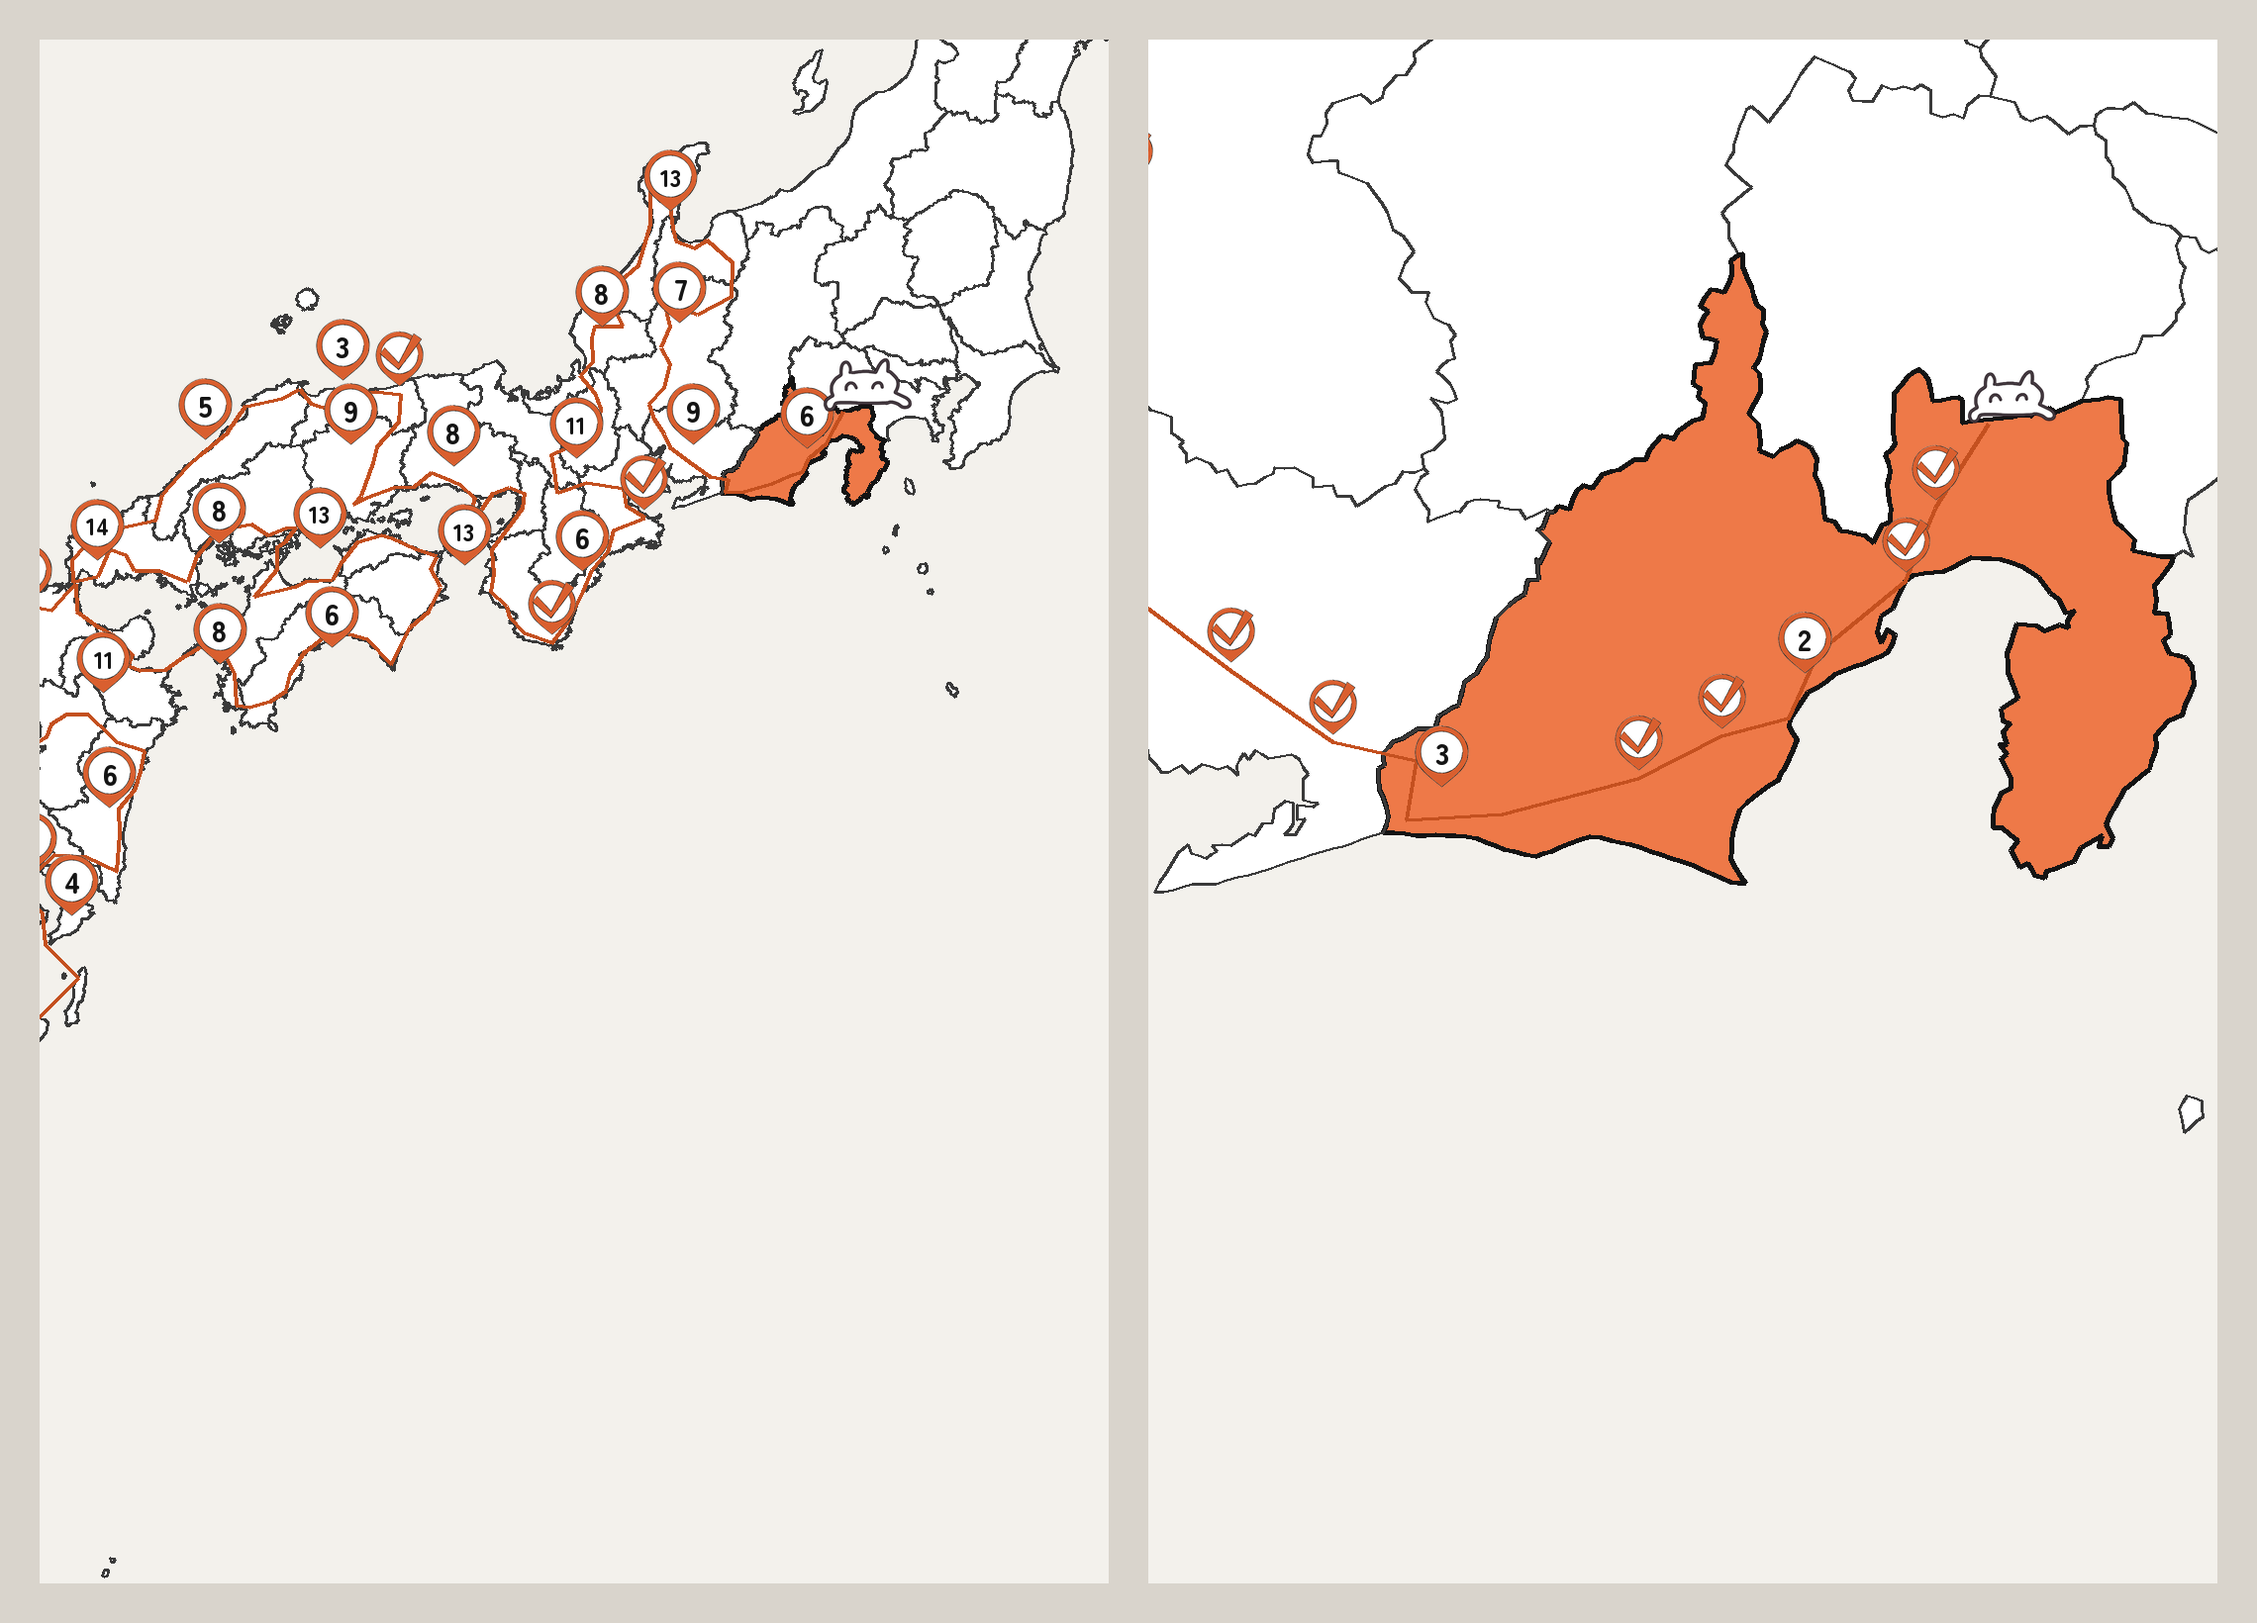
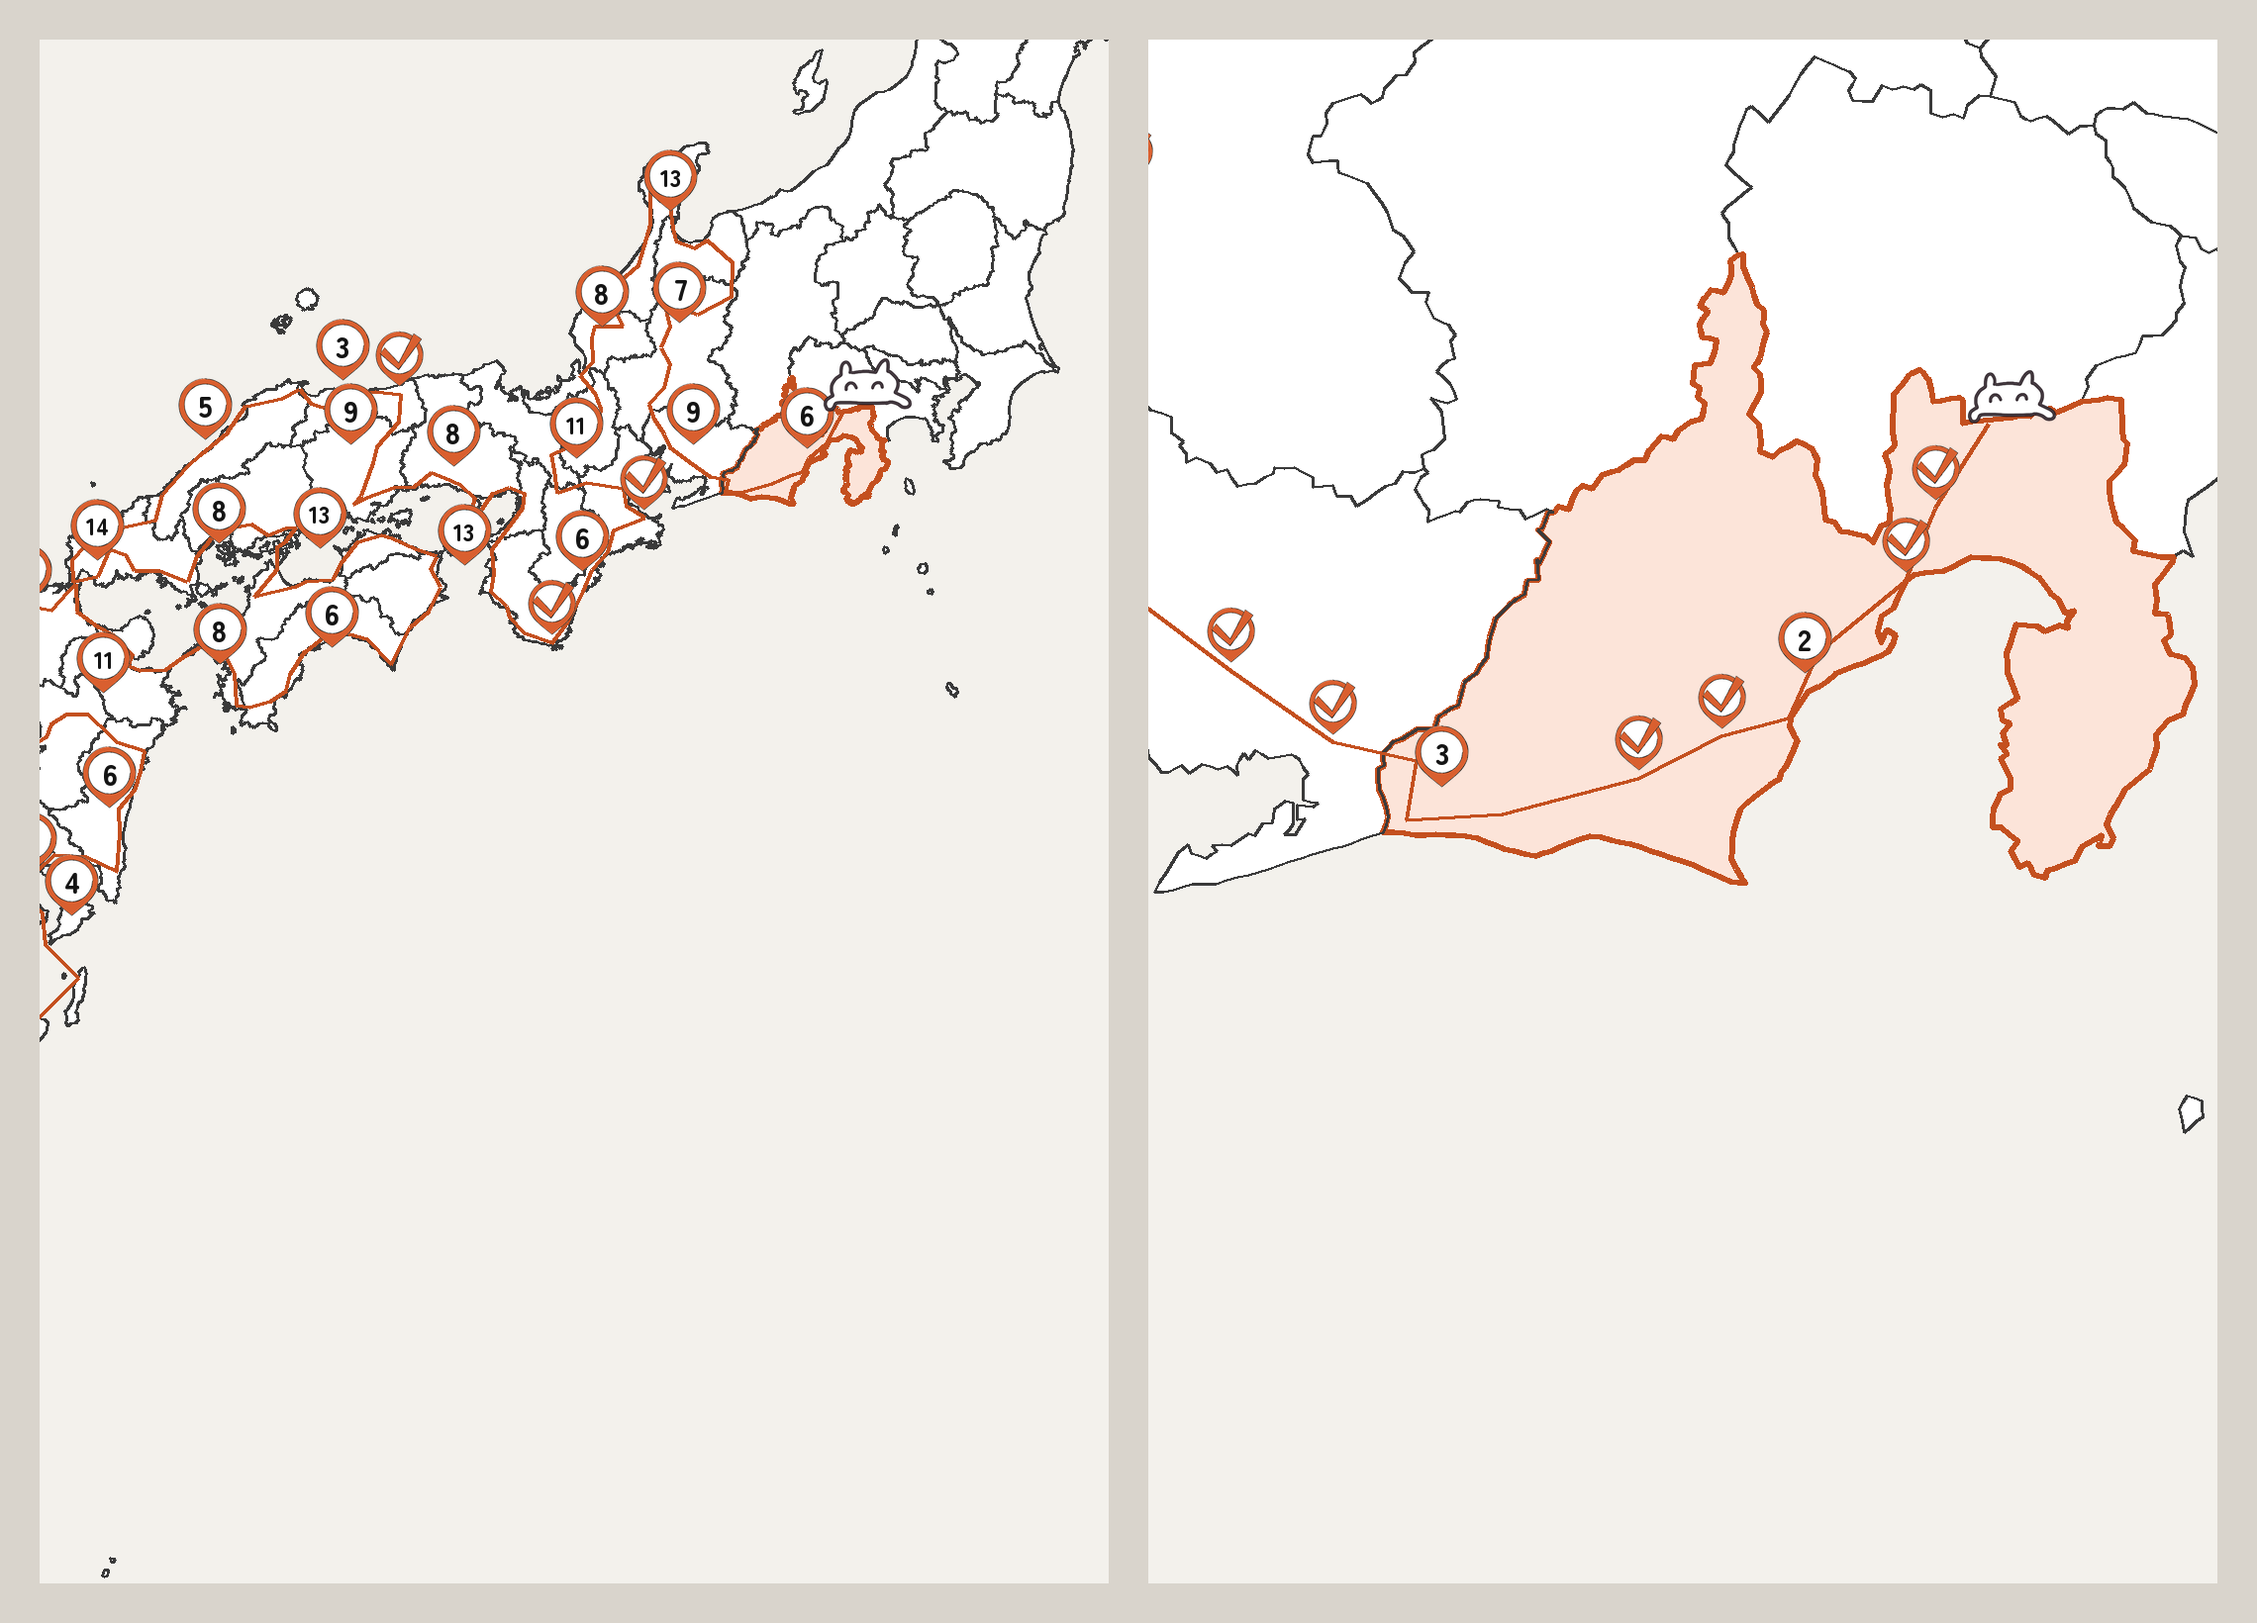
よこめぐり: いまの県を薄いオレンジで塗り、ふちを濃いオレンジにする (v0.25)
いまの県をアクセントで塗っていたので、オレンジのピンが沈んで見えていた。
塗りを薄い色 #FCE4D9 にし、ふちを濃い色 #C4501F の2dpの線にする。
クラウドでビルドが通ることと、見本での見え方は確認済み。実機では未確認。

Claude-Session: https://claude.ai/code/session_014KTR17zu9RCtEpA9ba5Zut

Changed region(s): [[0.5917, 0.1555, 0.9965, 0.5598], [0.3114, 0.2488, 0.4048, 0.311]]

diff --git a/step-widget/app/src/main/java/app/yokozurashi/steps/MapView.java b/step-widget/app/src/main/java/app/yokozurashi/steps/MapView.java
@@ -24,7 +24,7 @@ import java.util.List;
 import java.util.Map;
 
 /**
- * 日本地図。いまいる都道府県を塗り、通った道すじと、ずらし終わった地点のピン（チェックの印）を出す。
+ * 日本地図。いまいる都道府県を薄いオレンジで塗り、通った道すじと、ずらし終わった地点のピン（チェックの印）を出す。
  * いまの場所には、よこずらしを立てて、ウィジェットと同じ9コマで動かす。
  * 県の形の線は、手描きのように少し揺らして描く（wobble）。
  * 指で動かす・広げる・ダブルタップで拡大できる。広く見ているときは、近いピンをまとめて数を添える。
@@ -40,7 +40,7 @@ public class MapView extends View {
     }
 
     private static final int INK = 0xFF141414;
-    private static final int ACCENT = 0xFFEE7948;
+    private static final int ACCENT_PALE = 0xFFFCE4D9; // いまの県の塗り
     private static final int ACCENT_DARK = 0xFFC4501F;
     private static final int SEA = 0xFFF3F1EC;
     private static final int LAND = 0xFFFFFFFF;
@@ -393,7 +393,7 @@ public class MapView extends View {
         }
         fill.setStyle(Paint.Style.FILL);
         for (int code = 1; code <= 47; code++) {
-            fill.setColor(code == currentPref ? ACCENT : LAND);
+            fill.setColor(code == currentPref ? ACCENT_PALE : LAND);
             c.drawPath(shapes[code], fill);
         }
         line.setColor(0xFF3A3A3A);
@@ -402,8 +402,9 @@ public class MapView extends View {
             if (code != currentPref) c.drawPath(shapes[code], line);
         }
         if (currentPref > 0) {
-            line.setColor(INK);
-            line.setStrokeWidth(1.6f * dp);
+            // いまの県は、薄いオレンジで塗り、ふちを濃いオレンジで太く描く（オレンジのピンが沈まないように）
+            line.setColor(ACCENT_DARK);
+            line.setStrokeWidth(2f * dp);
             c.drawPath(shapes[currentPref], line);
         }
 

diff --git a/step-widget/SPEC.md b/step-widget/SPEC.md
@@ -519,7 +519,7 @@
 | 要素 | 見た目とふるまい |
 | --- | --- |
 | 見出し | 「これまでにずらしたもの」20sp、その下に「ずらしたもの 224 ・ 4945.8km」11sp灰。右上に設定の歯車（墨の線） |
-| 地図 | 海は #F3F1EC、陸は白、都道府県の境は灰の細い線。いまいる都道府県をアクセント #EE7948 で塗り、墨の太い線でふちどる。線は手描きのように少し揺らす（下の「線の揺らし方」） |
+| 地図 | 海は #F3F1EC、陸は白、都道府県の境は灰の細い線。いまいる都道府県をアクセントの薄い色 #FCE4D9 で塗り、アクセントの濃い色 #C4501F の太い線（2dp）でふちどる（オレンジのピンが沈まないように）。線は手描きのように少し揺らす（下の「線の揺らし方」） |
 | 道すじ | 出発からいまの場所まで、通った道すじをアクセントの濃い色 #C4501F の線で引く |
 | 周 | 地図に出すのは、いまの周でずらし終わったものだけ。2周目からは見出しに「2周目」と出す。前の周は、設定画面の「これまでの周」から開く（その周のぜんぶの地点にピンを立て、いまの場所のピンと県の塗りは出さない。カードにはその周のゴールの日） |
 | ピン | ずらし終わった地点に、依頼者が描いたチェックの印のピン（`pin_done.png`、高さ24dp、選んだものは32dp）を、ピンの先が地点に来るように立てる。画面の上で40dp四方に入るピンは、まとめたピン（`pin_group.png`、高さ28dp）1つにし、まんなかの丸にまとめた数を墨の Zen Maru Gothic Black で書く。拡大すると、ばらけて地点ごとになる。ピンの絵は `assets/pin_done_src.png`、`pin_group_src.png` から `tools/make_pins.py` で外側の白を透明にして作る |
@@ -612,6 +612,7 @@
 - 0.2（2026-11-15）: 歩数をヘルスコネクトから読むように替えた。依頼者の端末（Android 14）で、歩数を取得できた
 - 0.3（2026-11-15）: 名前を「よこめぐり」にした。アクセントカラーを #EE7948 にした。名物の絵を右上に出す場所を作り、配置を組み直した。絵は都道府県ごとの47枚から始めて、地点ごとの絵をあとから足せる作りにした
 - 0.5（2026-11-15）: 帯の文を、地点ごとの「元の状態・いい状態にずらす」文に替えた。帯を2行にした
+- 0.25（2026-11-24）: いまの県の塗りを薄いオレンジにし、ふちを濃いオレンジの太い線にした（オレンジのピンが沈んで見えたため）
 - 0.24（2026-11-24）: 地図のピンを、依頼者の描いたチェックの印のピンと、数を書くまとめピンに替えた。よこずらしはいまの場所だけに出し、コマ送りで動かす。見本は `assets/pins_mock.png`
 - 0.23（2026-11-24）: 設定画面の確認用の欄に「30km 進む」「1周ぶん進む」ボタンを置いた（2周目の地図や「これまでの周」を歩かずに見るため）
 - 0.22 のあと（2026-11-24）: 378地点の位置を確かめた。国土地理院の地名検索で306地点が地名で見つかり、大きなずれはなかった。見つからなかった72地点（島・岬・湖・温泉など）は、地球地図日本の市区町村の範囲で、正しい市区町村に入っていることを確かめた。直したのは2地点（いすみ：となりの大多喜町に入っていた、音標：海の上だった）

diff --git a/README.md b/README.md
@@ -6,7 +6,7 @@
 | --- | --- | --- |
 | `pomodoro-timer/` | よこドーロタイマー（ポモドーロタイマーとウィジェット） | 動作中 |
 | `news-widget/` | よこずらしニュース（日付・天気・ニュースのウィジェット） | 仕様のみ。実装はこれから |
-| `step-widget/` | よこめぐり（歩いた累計の距離で日本を進む、歩数のウィジェット） | 0.24。歩数はヘルスコネクトから読む（Android 14 以上）。都道府県の標章は入れた。名物の絵はこれから |
+| `step-widget/` | よこめぐり（歩いた累計の距離で日本を進む、歩数のウィジェット） | 0.25。歩数はヘルスコネクトから読む（Android 14 以上）。都道府県の標章は入れた。名物の絵はこれから |
 
 ## 共通の作り
 
